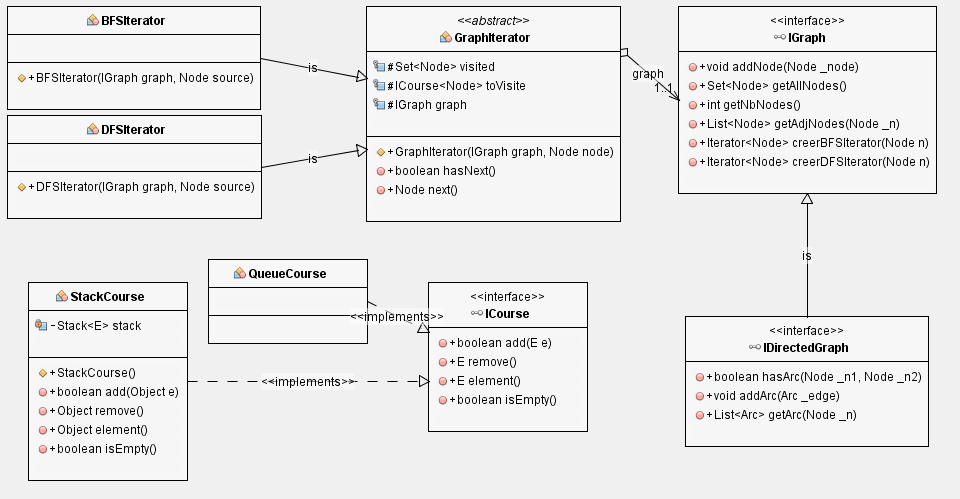
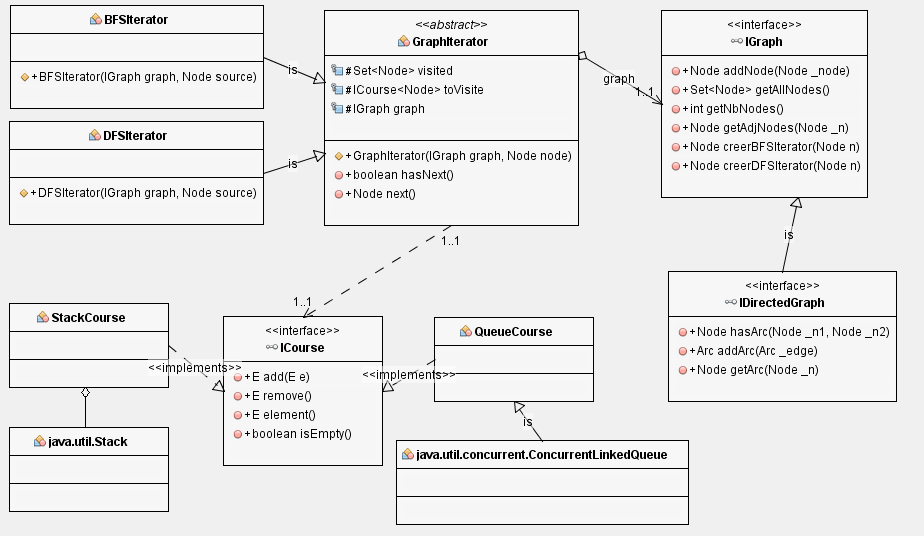
modifications de la question 3/4

diff --git a/RAPPORT.md b/RAPPORT.md
@@ -25,7 +25,8 @@ Afin de réutiliser le maximun de code nous utilsons un Pattern Adapter comme vo
 
 ## Question 3 et 4
 Afin de garder notre logique de réutilisation maximale du code nous avons déjà implémenté, en plus du pattern iterator nous avons également réutilsé le pattern 
-adapter avec les classes QueueCourse (pour le parcours en largeur) et StackCourse (pour le parcours en profondeur) qui implémentent l'interfaceICourse.
+adapter avec les classes QueueCourse adaptant une queue pour le parcours en largeur et StackCourse, adaptant un stack pour le parcours en profondeur 
+qui implémentent l'interface ICourse.
 Vous pouvez observer le schéma UML sur l'image suivante.
 ![Question 3](images/Question3.PNG)
 
